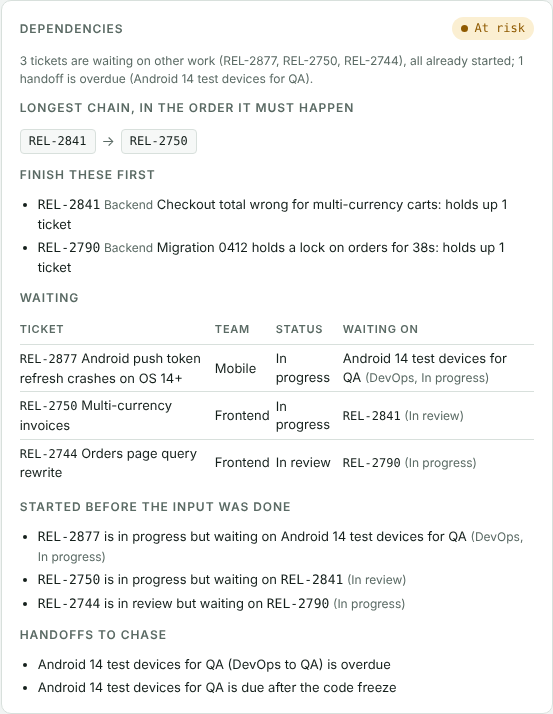
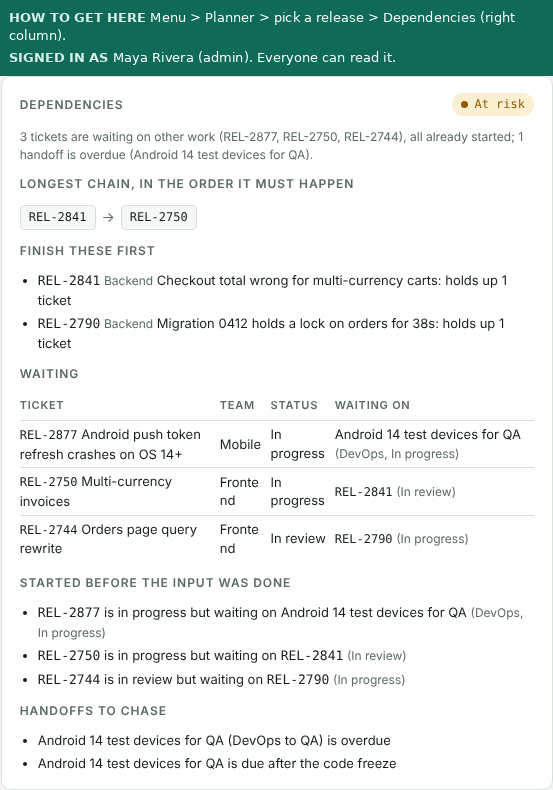
Refresh screenshots and add "how to get here" bars
Every screenshot now has a bar saying which menu to click to reach it
(and, in the team edition, who is signed in and which roles can use it).

Claude-Session: https://claude.ai/code/session_01J6ZpA1dHSDu8WDybSqTXX9

Changed region(s): [[0.0, 0.0, 1.0, 0.986]]

diff --git a/README.md b/README.md
@@ -6,6 +6,8 @@ This edition is built for a team. Only people you invite can open it, each perso
 
 ![Dashboard](docs/dashboard.png)
 
+Every screenshot has a green bar on top: **how to get there** (which menu to click) and **who is signed in** (which role can use it).
+
 **Contents**
 
 - **Using it:** [The problem](#the-problem) · [What it does](#what-it-does) · [Dependencies](#dependencies-what-waits-on-what) · [Every release](#using-it-for-every-release) · [Release docs](#release-docs)
